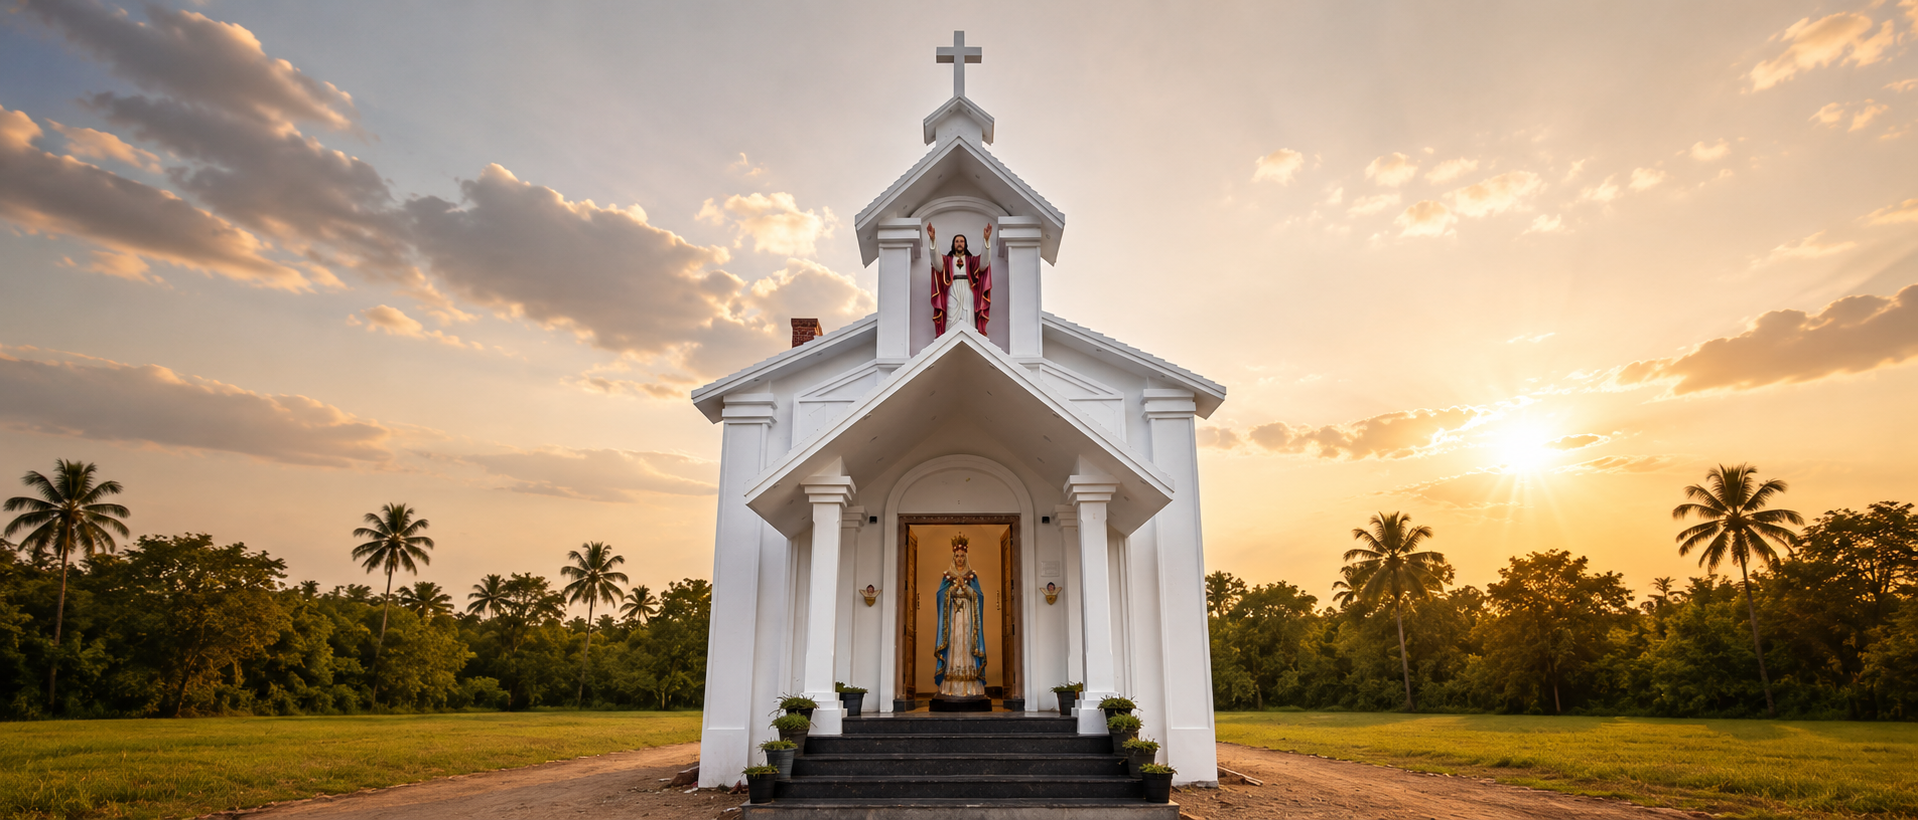
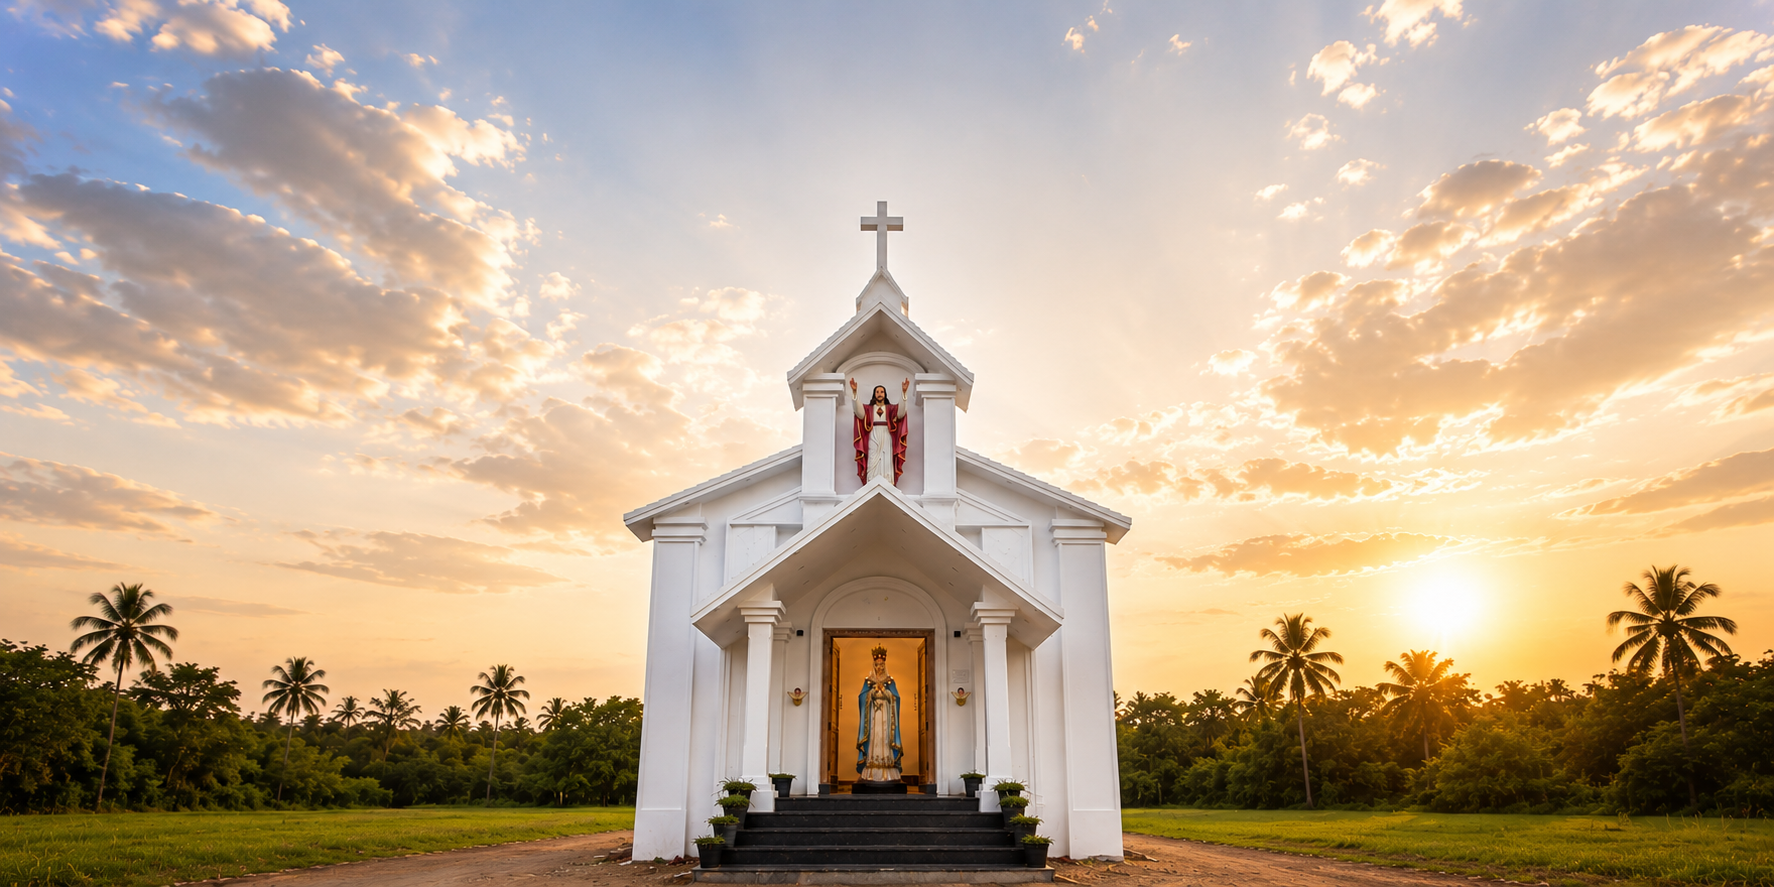
Fix mobile hero background

diff --git a/style.css b/style.css
@@ -308,7 +308,7 @@ body.ta .nav-link {
   background-size:cover ;   /* show full image */
   background-position: center center;
   background-repeat: no-repeat;
-
+ filter: brightness(1.25);
   z-index: 1;
 }
 
